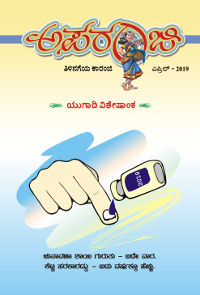
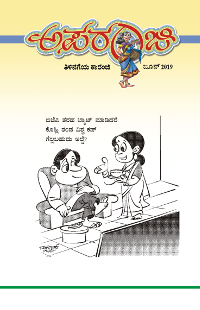
June issue updated

diff --git a/index.php b/index.php
@@ -69,7 +69,7 @@ session_start();
 			$currentmonth=$row['month'];
 			
 			echo "<div class=\"holder\">";
-			echo "<div class=\"holder_title\"><img src=\"php/images/theme.png?v-1\" alt=\"Theme Image\"/>&nbsp;<a href=\"Volumes/".$currentyear."_".$currentmonth.".pdf#page=1\" target=\"_blank\">".$month[$currentmonth-1]." ".$currentyear."</a></div>";
+			echo "<div class=\"holder_title\"><img src=\"php/images/theme.png?v-2\" alt=\"Theme Image\"/>&nbsp;<a href=\"Volumes/".$currentyear."_".$currentmonth.".pdf#page=1\" target=\"_blank\">".$month[$currentmonth-1]." ".$currentyear."</a></div>";
 			echo "<div class=\"holder_area\">";
 			$result = $mysqli->query("select * from article where volume = $volume and issue= $issue ");
 			$num_rows=	$result->num_rows;
@@ -91,7 +91,7 @@ session_start();
 			echo "		  </div>
 				</div>";
 				
-			echo "<div class=\"cover\"><a href=\"Volumes/".$currentyear."_".$currentmonth.".pdf#page=1\" target=\"_blank\"><img src=\"php/images/cover.png\" alt=\"".$month[$currentmonth-1]."\" title=\"".$month[$currentmonth-1]." ಸಂಚಿಕೆ\"/></a></div>";
+			echo "<div class=\"cover\"><a href=\"Volumes/".$currentyear."_".$currentmonth.".pdf#page=1\" target=\"_blank\"><img src=\"php/images/cover1.png\" alt=\"".$month[$currentmonth-1]."\" title=\"".$month[$currentmonth-1]." ಸಂಚಿಕೆ\"/></a></div>";
 		?>
 			
 		
